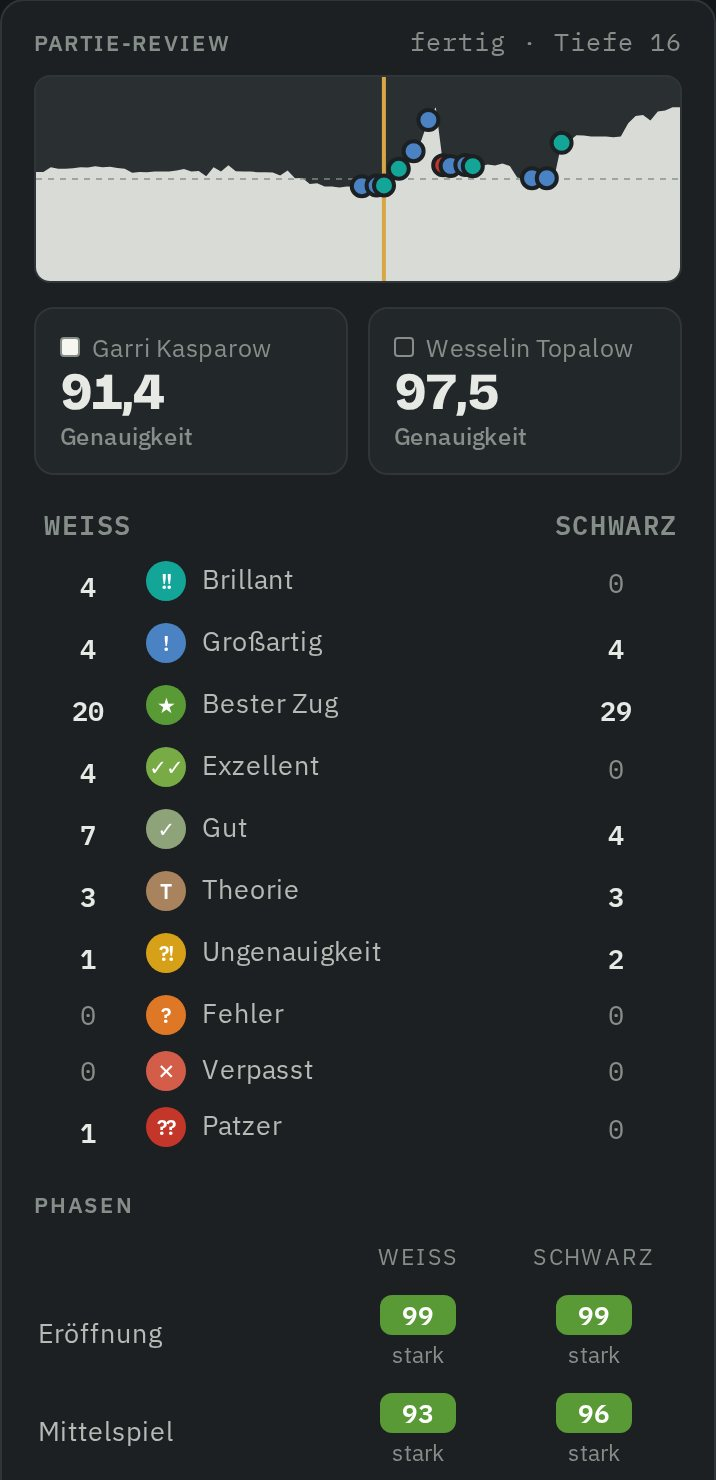
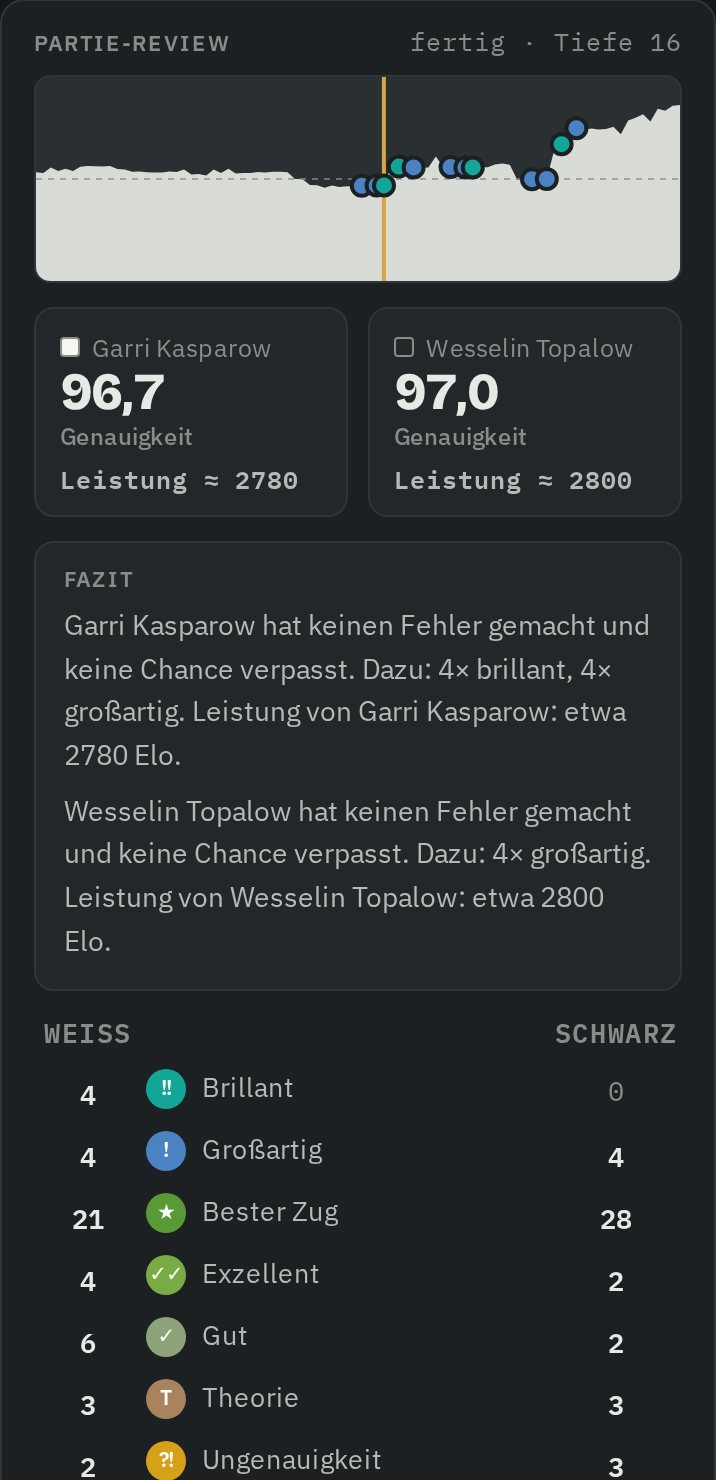
Zugradar: neue Produktbilder, schnellere Bewertungsgrafik
- Produktbilder zeigen Fazit und Leistungs-Elo im Review
- Bewertungsgrafik liest ihre Größe nicht mehr bei jedem Zeichnen
  (erzwang ein Neu-Layout): Zeichnen 0,9 statt 7 ms bei 88 Halbzügen

Claude-Session: https://claude.ai/code/session_01TvhNQ48sWiGaFbT6HrrH22

diff --git a/personal/chess/zugradar.html b/personal/chess/zugradar.html
@@ -1101,7 +1101,7 @@ select {
 </div>
 
 <script>
-(function(){var r=typeof window!=='undefined'?window:globalThis;r.SK=r.SK||{};r.SK.seller={"_hinweis": "Deine Geschäftsdaten. Nach Änderungen: python3 build.py. Leere Felder erscheinen auf der Website als [bitte ausfüllen].", "brand": "Zugradar", "siteUrl": "https://demirgernaz99-del.github.io/Humanizer/personal/chess/", "checkoutUrl": "", "prices": {"monthly": "4,99 €", "yearly": "34,99 €", "lifetime": "69 €"}, "pricesEn": {"monthly": "€4.99", "yearly": "€34.99", "lifetime": "€69"}, "license": {"provider": "lemonsqueezy", "storeId": null, "productIds": [], "organizationId": "", "benefitIds": [], "api": ""}, "legal": {"name": "", "street": "", "city": "", "country": "Deutschland", "email": "", "phone": "", "vatId": ""}, "merchantOfRecord": "Lemon Squeezy (Lemon Squeezy LLC)", "_hinweis_license": "provider: 'lemonsqueezy' (storeId, productIds) oder 'polar' (organizationId, optional benefitIds). api nur bei Proxy ausfüllen."};r.SK.build={"version": "1.0 (a459830)"};})();
+(function(){var r=typeof window!=='undefined'?window:globalThis;r.SK=r.SK||{};r.SK.seller={"_hinweis": "Deine Geschäftsdaten. Nach Änderungen: python3 build.py. Leere Felder erscheinen auf der Website als [bitte ausfüllen].", "brand": "Zugradar", "siteUrl": "https://demirgernaz99-del.github.io/Humanizer/personal/chess/", "checkoutUrl": "", "prices": {"monthly": "4,99 €", "yearly": "34,99 €", "lifetime": "69 €"}, "pricesEn": {"monthly": "€4.99", "yearly": "€34.99", "lifetime": "€69"}, "license": {"provider": "lemonsqueezy", "storeId": null, "productIds": [], "organizationId": "", "benefitIds": [], "api": ""}, "legal": {"name": "", "street": "", "city": "", "country": "Deutschland", "email": "", "phone": "", "vatId": ""}, "merchantOfRecord": "Lemon Squeezy (Lemon Squeezy LLC)", "_hinweis_license": "provider: 'lemonsqueezy' (storeId, productIds) oder 'polar' (organizationId, optional benefitIds). api nur bei Proxy ausfüllen."};r.SK.build={"version": "1.0 (0642866)"};})();
 </script>
 <script>
 /* SK.i18n – Deutsch/Englisch. Der deutsche Text ist zugleich der Schlüssel (wie gettext):
@@ -8667,9 +8667,15 @@ if (typeof module !== 'undefined') module.exports = (typeof window !== 'undefine
 
   // Bewertungsverlauf: Gewinnchance von Weiß pro Halbzug
   var graphHover = null, graphSig = '';
+  // Größe der Grafik merken: clientWidth bei jedem Zeichnen zu lesen erzwingt ein Neu-Layout der Seite
+  var graphSize = null;
+  function graphDims(g) {
+    if (!graphSize || !graphSize.w) graphSize = { w: g.clientWidth, h: g.clientHeight };
+    return graphSize;
+  }
   function renderGraph(results) {
-    var g = $('graph');
-    var W = Math.max(200, g.clientWidth || 360), H = g.clientHeight || 104;
+    var g = $('graph'), gd = graphDims(g);
+    var W = Math.max(200, gd.w || 360), H = gd.h || 104;
     var n = state.line.length;
     var pts = [];
     for (var i = 0; i <= n; i++) {
@@ -9967,7 +9973,8 @@ if (typeof module !== 'undefined') module.exports = (typeof window !== 'undefine
     g.addEventListener('pointermove', function (e) { graphHover = plyAt(e); renderGraph(classifyAll()); });
     g.addEventListener('pointerleave', function () { graphHover = null; renderGraph(classifyAll()); });
     g.addEventListener('click', function (e) { if (!train) go(plyAt(e)); });
-    window.addEventListener('resize', function () { insightsDirty = true; soon(); });
+    window.addEventListener('resize', function () { insightsDirty = true; graphSize = null; soon(); });
+    if (window.ResizeObserver) new ResizeObserver(function () { graphSize = null; graphSig = ''; soon(); }).observe(g);
 
     document.addEventListener('keydown', function (e) {
       // Escape schließt Dialoge auch, wenn gerade ein Eingabefeld den Fokus hat

diff --git a/personal/chess/index.html b/personal/chess/index.html
@@ -356,7 +356,7 @@ footer a:hover { color: var(--ink); }
 </footer>
 
 <script>
-(function(){var r=typeof window!=='undefined'?window:globalThis;r.SK=r.SK||{};r.SK.seller={"_hinweis": "Deine Geschäftsdaten. Nach Änderungen: python3 build.py. Leere Felder erscheinen auf der Website als [bitte ausfüllen].", "brand": "Zugradar", "siteUrl": "https://demirgernaz99-del.github.io/Humanizer/personal/chess/", "checkoutUrl": "", "prices": {"monthly": "4,99 €", "yearly": "34,99 €", "lifetime": "69 €"}, "pricesEn": {"monthly": "€4.99", "yearly": "€34.99", "lifetime": "€69"}, "license": {"provider": "lemonsqueezy", "storeId": null, "productIds": [], "organizationId": "", "benefitIds": [], "api": ""}, "legal": {"name": "", "street": "", "city": "", "country": "Deutschland", "email": "", "phone": "", "vatId": ""}, "merchantOfRecord": "Lemon Squeezy (Lemon Squeezy LLC)", "_hinweis_license": "provider: 'lemonsqueezy' (storeId, productIds) oder 'polar' (organizationId, optional benefitIds). api nur bei Proxy ausfüllen."};r.SK.build={"version": "1.0 (a459830)"};})();
+(function(){var r=typeof window!=='undefined'?window:globalThis;r.SK=r.SK||{};r.SK.seller={"_hinweis": "Deine Geschäftsdaten. Nach Änderungen: python3 build.py. Leere Felder erscheinen auf der Website als [bitte ausfüllen].", "brand": "Zugradar", "siteUrl": "https://demirgernaz99-del.github.io/Humanizer/personal/chess/", "checkoutUrl": "", "prices": {"monthly": "4,99 €", "yearly": "34,99 €", "lifetime": "69 €"}, "pricesEn": {"monthly": "€4.99", "yearly": "€34.99", "lifetime": "€69"}, "license": {"provider": "lemonsqueezy", "storeId": null, "productIds": [], "organizationId": "", "benefitIds": [], "api": ""}, "legal": {"name": "", "street": "", "city": "", "country": "Deutschland", "email": "", "phone": "", "vatId": ""}, "merchantOfRecord": "Lemon Squeezy (Lemon Squeezy LLC)", "_hinweis_license": "provider: 'lemonsqueezy' (storeId, productIds) oder 'polar' (organizationId, optional benefitIds). api nur bei Proxy ausfüllen."};r.SK.build={"version": "1.0 (0642866)"};})();
 (function () {
   var SELLER = window.SK && window.SK.seller || {};
   var EN = {

diff --git a/personal/chess/src/app.js b/personal/chess/src/app.js
@@ -1067,9 +1067,15 @@
 
   // Bewertungsverlauf: Gewinnchance von Weiß pro Halbzug
   var graphHover = null, graphSig = '';
+  // Größe der Grafik merken: clientWidth bei jedem Zeichnen zu lesen erzwingt ein Neu-Layout der Seite
+  var graphSize = null;
+  function graphDims(g) {
+    if (!graphSize || !graphSize.w) graphSize = { w: g.clientWidth, h: g.clientHeight };
+    return graphSize;
+  }
   function renderGraph(results) {
-    var g = $('graph');
-    var W = Math.max(200, g.clientWidth || 360), H = g.clientHeight || 104;
+    var g = $('graph'), gd = graphDims(g);
+    var W = Math.max(200, gd.w || 360), H = gd.h || 104;
     var n = state.line.length;
     var pts = [];
     for (var i = 0; i <= n; i++) {
@@ -2367,7 +2373,8 @@
     g.addEventListener('pointermove', function (e) { graphHover = plyAt(e); renderGraph(classifyAll()); });
     g.addEventListener('pointerleave', function () { graphHover = null; renderGraph(classifyAll()); });
     g.addEventListener('click', function (e) { if (!train) go(plyAt(e)); });
-    window.addEventListener('resize', function () { insightsDirty = true; soon(); });
+    window.addEventListener('resize', function () { insightsDirty = true; graphSize = null; soon(); });
+    if (window.ResizeObserver) new ResizeObserver(function () { graphSize = null; graphSig = ''; soon(); }).observe(g);
 
     document.addEventListener('keydown', function (e) {
       // Escape schließt Dialoge auch, wenn gerade ein Eingabefeld den Fokus hat

diff --git a/personal/chess/sw.js b/personal/chess/sw.js
@@ -1,7 +1,7 @@
 /* Zugradar Service Worker – macht die App offline-fähig.
    Die Version setzt build.py (ändert sich bei jedem Build mit neuem Inhalt).
    Die Engine (7 MB) liegt in einem eigenen, beständigen Cache, damit sie nicht bei jedem Update neu geladen wird. */
-var V = 'zugradar-8c19d2a747';
+var V = 'zugradar-0584cf515b';
 var ENGINE = 'zugradar-engine-1';
 var ENGINE_FILES = ['engine/stockfish-18-lite-single.js', 'engine/stockfish-18-lite-single.wasm'];
 var CORE = ['./', 'index.html', 'zugradar.html', 'manifest.webmanifest', 'fonts/fonts.css',
